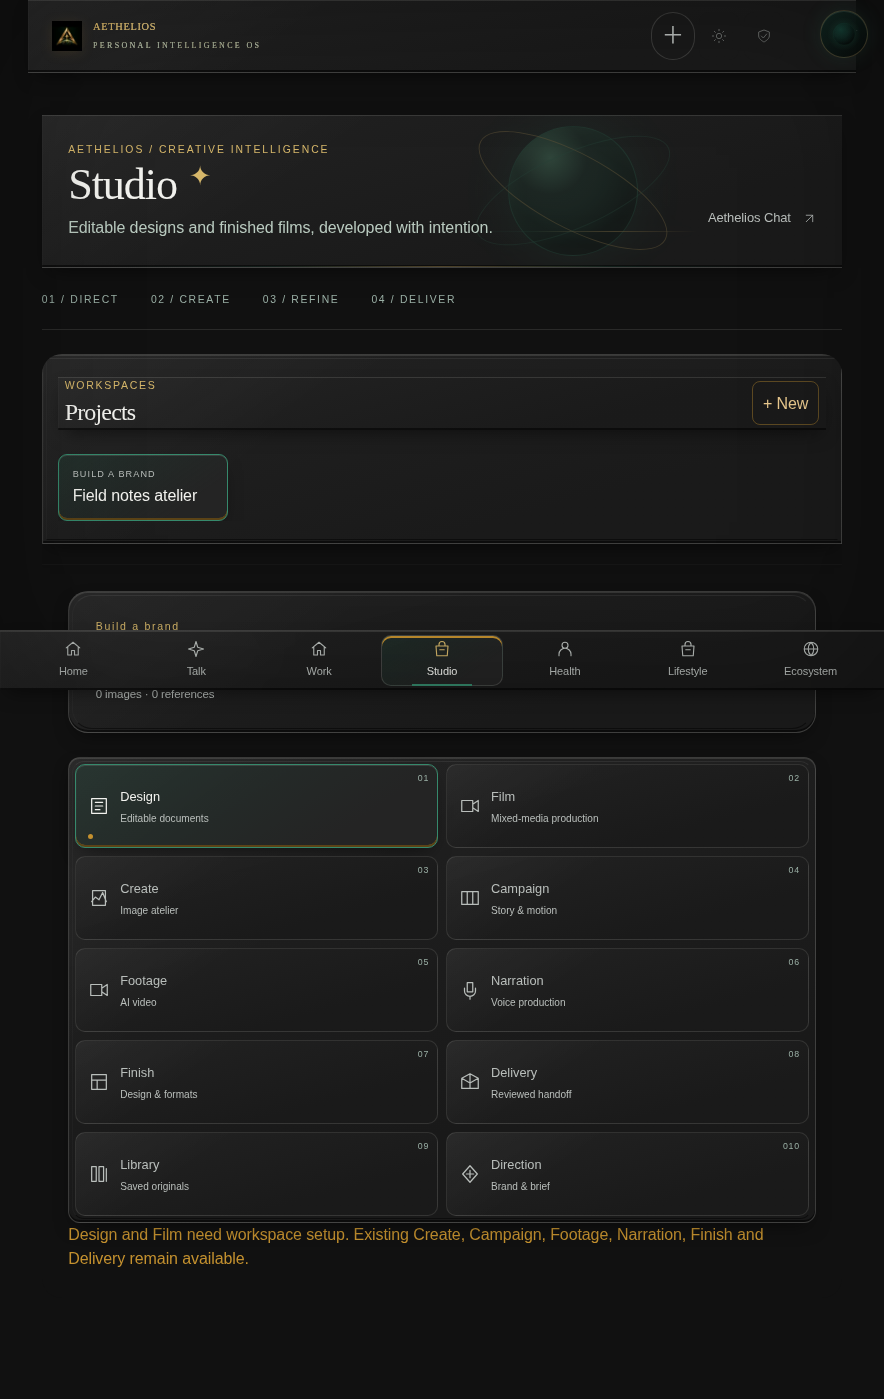
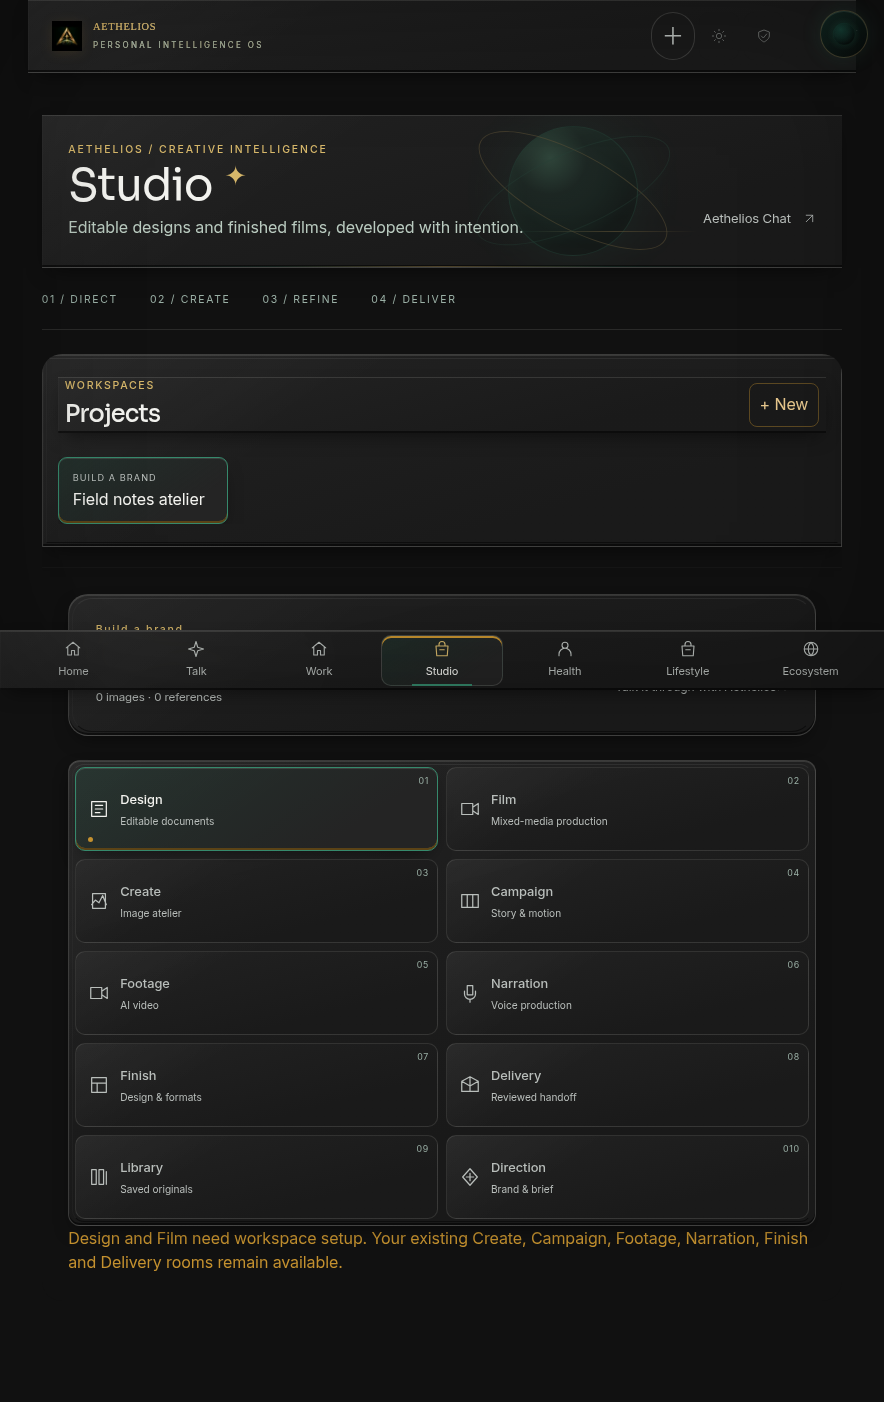
test: correct baseline fonts and verify complete creation evidence

diff --git a/docs/CREATION_MATERIAL_REPAIR.md b/docs/CREATION_MATERIAL_REPAIR.md
@@ -22,7 +22,7 @@ The four approved photographic entrance cards, official emblems and all assets a
 
 ## Evidence and limits
 
-[Before manifest](evidence/creation-materials/before-manifest.json) pins 20 PNGs to actual served production CSS and original stylesheet order, replayed on real application DOM with labelled disposable API fixtures. These show Talk, its opened document, Architect Blueprint and its saved document at 390×844, 690×884, 884×690, 1440×900 and 390×520. Before and after use the same fixture, content and document view. The separate Studio before manifest adds five full-page captures using the original room-console class and actual served Studio CSS; its style fingerprint is unchanged between the inspected production versions.
+[Before manifest](evidence/creation-materials/before-manifest.json) pins 25 PNGs to actual served production CSS and original stylesheet order, replayed on real application DOM with labelled disposable API fixtures. These show Talk, its opened document, Architect Blueprint and its saved document at 390×844, 690×884, 884×690, 1440×900 and 390×520. Before and after use the same fixture, content and document view. The Studio subset includes five full-page captures using the original room-console class and actual served Studio CSS; its style fingerprint is unchanged between the inspected production versions.
 
 `playwright.materials.config.ts` serves a production Next build with Architect enabled and GET-only labelled API fixtures. Six tests inspect actual rendered pixels, optical geometry, canvas width, focus, draft continuity, overflow, focus-canvas transitions and accessibility preferences. They also cover Studio room switching, retained Direction drafts and honest model unavailability. Playwright finalizes videos when each test context closes. The visual workflow uploads before/after PNGs and per-viewport hash manifests in `obsidian-rendered-evidence`, under `creation-materials`. This is production-build visual-fixture proof, not authenticated hosted production or live voice/model proof. No Vite screenshot is used for this evidence.
 
@@ -41,3 +41,11 @@ The second reference `libfile_857d326e0dc081918d279392393910e8` (2644.jpg) encou
 - Direct production Next build and migration-ledger verification pass. `npm run check` remains locally non-green because of the unit environment failures above; its build phase is verified separately.
 - All six expanded production-build browser cases pass on material source commit `a0367b2abf91cdf5e5e176a008ddab381bfcb234`, including Studio, focus mode, unused track removal and Fold navigation separation. The working tree was clean for capture. The source-matched screenshots, manifests and six finalized WebM videos are in local `test-results/materials-a0367b2`; the corresponding CI evidence is attached to the current PR head. Subsequent commits update regression paint expectations and documentation only.
 - Thirty-eight targeted domain checks pass. An initial 41-case browser regression run passed 38; three Studio paint assertions incorrectly expected the missing-token fallback rather than the actual palette value. Computed styles confirmed #070B0A and all panel/text roles; assertions were corrected, and the broader route/material suite is rerun without skips or weaker comparisons. Final counts and exact CI artifact links are in the PR.
+
+## Baseline capture correction
+
+The original replay used deployment-specific font URLs unavailable on the local build, causing fallback typography in the before PNGs. Those superseded images must not be used to imply a typography improvement. All 25 baselines were recaptured with the exact Inter/Sora source bytes, whose Git blobs are identical at baseline 58a59df and the repair head. Both fonts are explicitly loaded and checked before capture; font hashes are in the CSS audit. The original Studio console class is replayed along with its original CSS. Library before-image identities are preserved at corrected version 1; after images remain unchanged.
+
+Reproduce with `node --experimental-strip-types scripts/capture-creation-material-baseline.mjs`, using the recorded served CSS in `MATERIAL_BASELINE_CSS_DIR` and a production application server at `MATERIAL_BASE_URL` (default http://127.0.0.1:3110). The script rejects a font source that differs from the baseline and checks rendered font loading. This is labelled production-CSS replay on fixture DOM, not an authenticated production screenshot.
+
+The visual workflow checks out the exact PR source head and runs `scripts/verify-creation-material-evidence.mjs` after contexts close. It rejects missing/superseded baseline PNGs, wrong commit/viewport, mismatched hashes and incomplete video files, then includes its `evidence-index.json` in the standard artifact and prints the verified index in CI logs.
